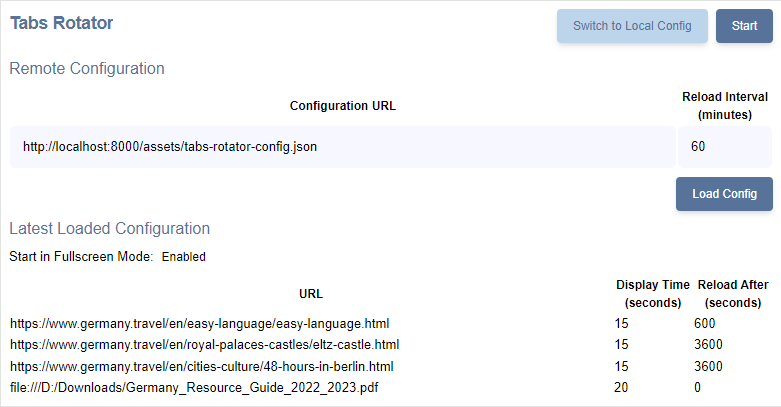
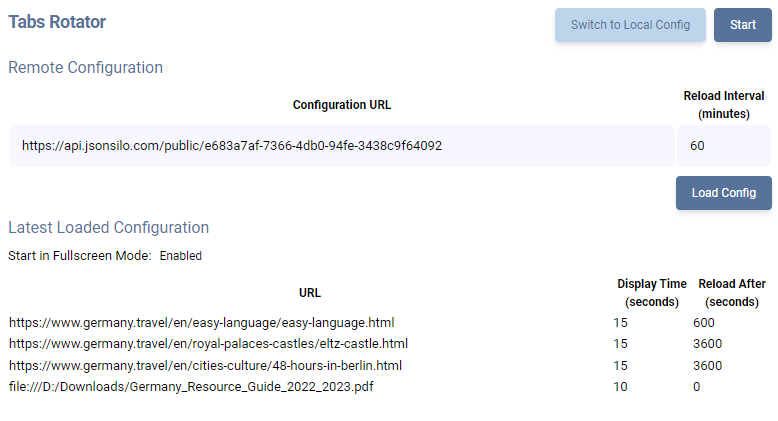
Added screenshots and refined manifest for publishing

diff --git a/src/app/models/page-config.model.ts b/src/app/models/page-config.model.ts
@@ -1,17 +1,18 @@
 export class PageConfig {
   /**
-   * URL of the page to be shown in the tab.
+   * The link to the page to display.
+   * Can be remote (starting with `https://`) or local (starting with `file://`).
    */
   url: string = '';
 
   /**
-   * Delay in seconds while the page is shown.
+   * The time in seconds that the page is displayed.
    */
   delaySeconds: number = 20;
 
   /**
-   * Interval in seconds to reload the page.
-   * When set to 0, the page will not be reloaded.
+   * Page reload interval in seconds.
+   * If set to 0, the page will not reload.
    */
   reloadIntervalSeconds: number = 0;
 

diff --git a/src/app/models/remote-settings.model.ts b/src/app/models/remote-settings.model.ts
@@ -5,8 +5,8 @@ export class RemoteSettings {
   configUrl: string = '';
 
   /**
-   * Interval in minutes to reload the configuration.
-   * If set to 0, the configuration will not be reloaded.
+   * Interval in minutes for reloading the configuration.
+   * If set to 0, the configuration will not reload.
    */
   configReloadIntervalMinutes: number = 0;
 

diff --git a/src/app/app.component.html b/src/app/app.component.html
@@ -3,7 +3,7 @@
     <h1
       class="text-primary text-xl font-bold tracking-tight leading-7 truncate"
     >
-      Tabs Rotator
+      Tabs Rotator / Slideshow
     </h1>
     <div class="flex justify-end flex-wrap gap-2">
       <button

diff --git a/README.md b/README.md
@@ -1,15 +1,15 @@
-# Chrome Tabs Rotator / Slideshow
+# Tabs Rotator / Slideshow
 
 ## Overview
 
-Chrome Tabs Rotator automatically loads URLs in new tabs and display them as a slideshow. It is useful for displaying dashboards, monitoring tools, presentations, advertisements, reports, marketing, or any other web pages that need to be cycled through regularly on a screen.
+Tabs Rotator automatically loads URLs in new tabs and displays them as slideshows. It is useful for displaying dashboards, monitoring tools, presentations, advertisements, reports, marketing, or any other web pages that need to be cycled through regularly on a screen.
 
 ## Features
 
 - Switch between tabs with web pages from the Internet or on your local PC using `file://` links.
 - Set display time and reload interval for each URL.
-- Manage configuration in the extension or load from a remote URL with automatic updates.
-- Import and export local configuration to a file.
+- Manage configuration in the extension with import and export support.
+- Load configuration from a remote URL with automatic updates. You can use a free online JSON storage (e.g. JSON Silo, n:point, Pantry).
 - Automatically retries loading links if errors occur and skips failed pages until they are available again.
 - It continues to work after the browser restarts and prevents tab spamming.
 - Offline support. Keeps the previous page version if the page update fails.
@@ -18,6 +18,25 @@ Chrome Tabs Rotator automatically loads URLs in new tabs and display them as a s
 
 ![Local Configuration](screenshots/local_configuration.png)
 ![Remote Configuration](screenshots/remote_configuration.png)
+
+## Page Configuration Options
+
+| Name | Description | JSON Option | Type |
+| --- | --- | --- | --- |
+| URL | The link to the page to display. Can be remote (starting with `https://`) or local (starting with `file://`). | url | String |
+| Display Time | The time in seconds that the page is displayed. | delaySeconds | Number |
+| Reload After | Page reload interval in seconds. If set to `0`, the page will not reload. | reloadIntervalSeconds | Number |
+
+## Remote Configuration Options
+
+| Name | Description | Type |
+| --- | --- | --- |
+| Configuration URL | URL to fetch the configuration from. | String |
+| Reload Interval | Interval in minutes for reloading the configuration. If set to `0`, the configuration will not reload. | Number |
+
+## Configuration Sample
+
+[tabs-rotator-config.json](https://api.jsonsilo.com/public/e683a7af-7366-4db0-94fe-3438c9f64092)
 
 ## Support
 
